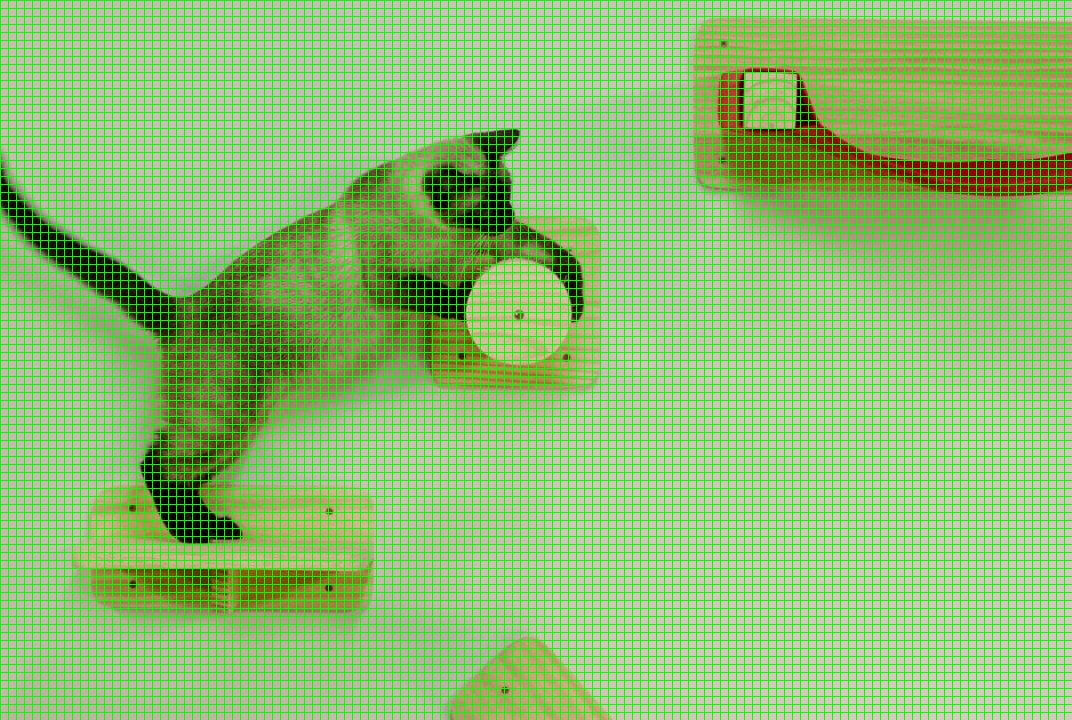
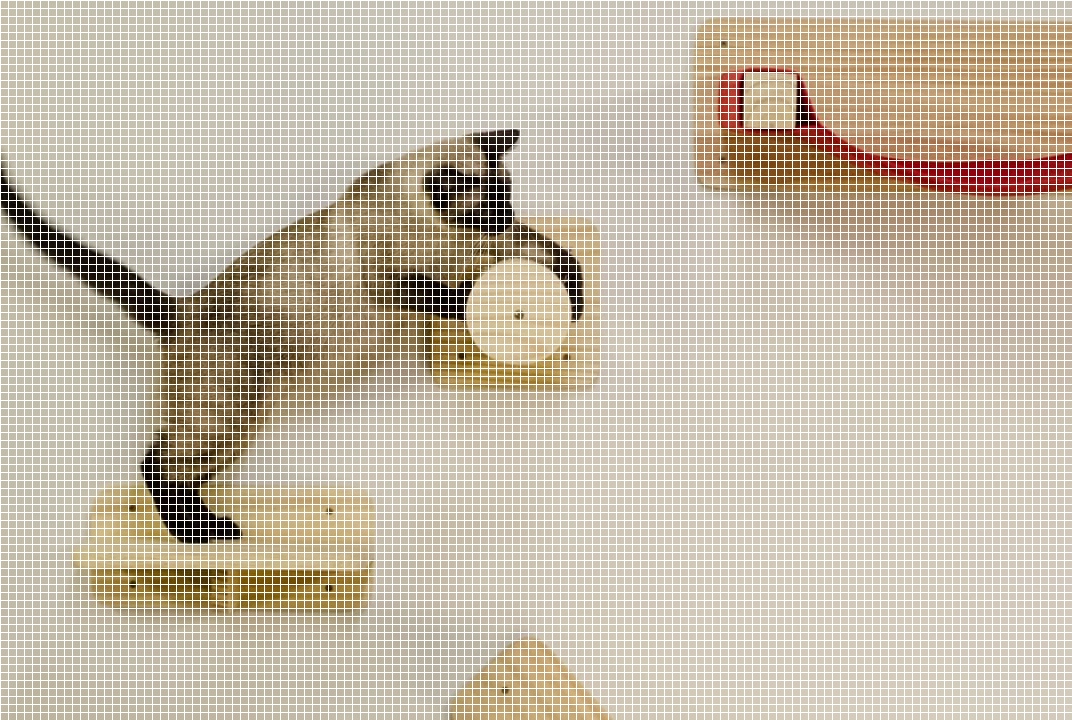
style: altera cor do grid de patches para branco

diff --git a/rann.py b/rann.py
@@ -127,9 +127,9 @@ def main():
     # Criar imagem com grid dos patches
     img_patches = img.copy()
     for y in range(0, h, patch_size):
-        cv2.line(img_patches, (0, y), (w, y), (0, 255, 0), 1)
+        cv2.line(img_patches, (0, y), (w, y), (255, 255, 255), 1)
     for x in range(0, w, patch_size):
-        cv2.line(img_patches, (x, 0), (x, h), (0, 255, 0), 1)
+        cv2.line(img_patches, (x, 0), (x, h), (255, 255, 255), 1)
 
     # Salvar a imagem final e as saídas individuais
     cv2.imwrite('resultado.jpg', final_result)
